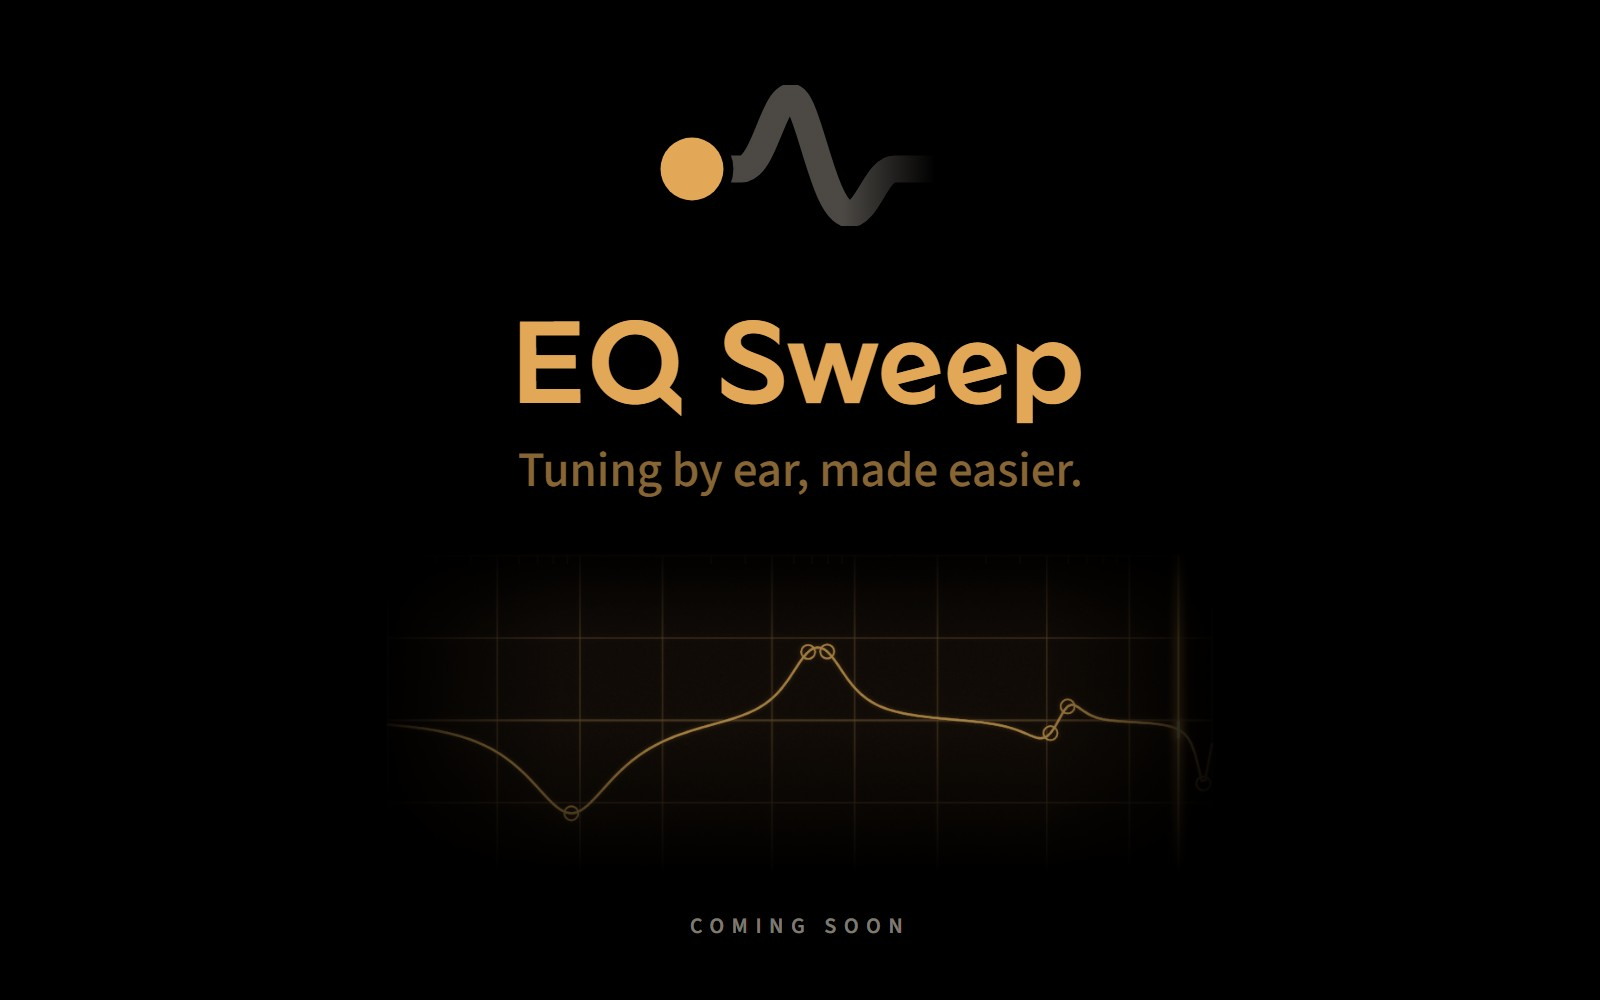
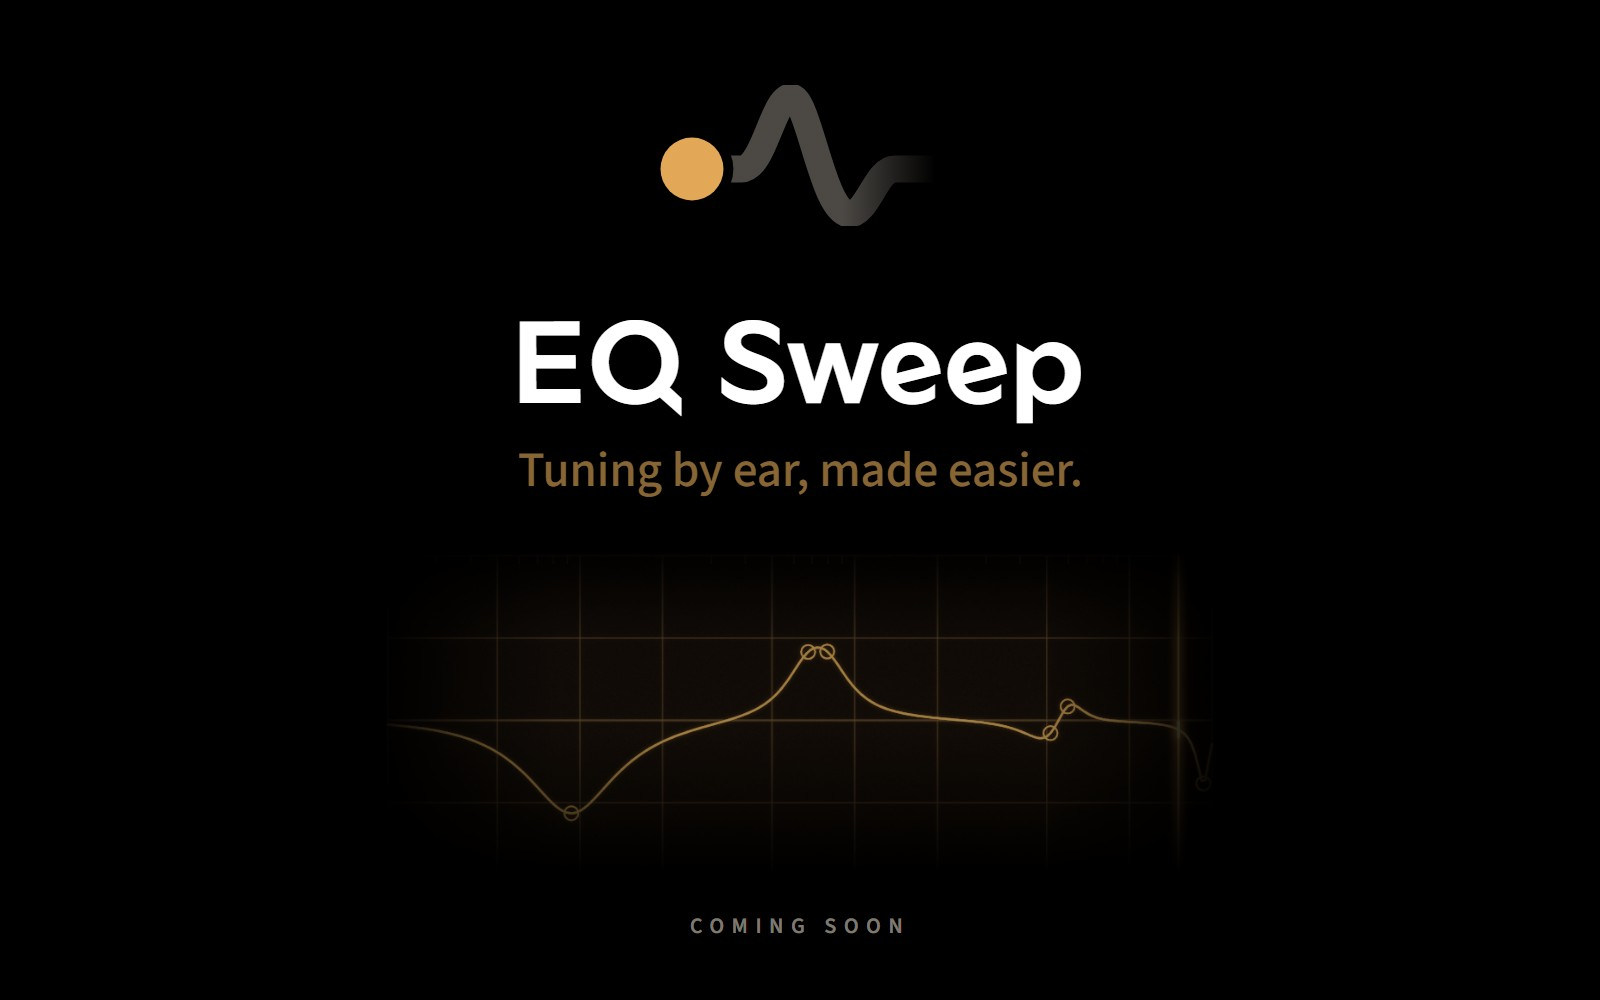
Profile: project titles above the images, EQ Sweep name in white

Changed region(s): [[0.3125, 0.31, 0.6875, 0.434]]

diff --git a/README.md b/README.md
@@ -1,29 +1,29 @@
 ### Chronosaur
 
-<a href="https://github.com/Chronosauros/eq-sweep"><img src="images/eq-sweep-teaser.jpg?v=3" width="100%" alt="EQ Sweep - coming soon."></a>
-
 **EQ Sweep** - coming soon
 
-<br>
+<a href="https://github.com/Chronosauros/eq-sweep"><img src="images/eq-sweep-teaser.jpg?v=4" width="100%" alt="EQ Sweep - coming soon."></a>
 
-<a href="https://github.com/Chronosauros/contour"><img src="images/contour-board.jpg?v=5" width="100%" alt="Contour - Android app, open source. EQ manager for the CrinEar Protocol Micro - keep profiles on your phone, send one in seconds."></a>
+<br>
 
 **Contour** - [source](https://github.com/Chronosauros/contour) · [download the APK](https://github.com/Chronosauros/contour/releases/latest)
 
-<br>
+<a href="https://github.com/Chronosauros/contour"><img src="images/contour-board.jpg?v=5" width="100%" alt="Contour - Android app, open source. EQ manager for the CrinEar Protocol Micro - keep profiles on your phone, send one in seconds."></a>
 
-<a href="https://filament-room.vercel.app"><img src="images/filament-room-board.jpg?v=3" width="100%" alt="Filament Room - website, work in progress. A 3D filament shelf in a painted workshop - open any spool for its print temperatures."></a>
+<br>
 
 **Filament Room** - work in progress - [filament-room.vercel.app](https://filament-room.vercel.app) · [source](https://github.com/Chronosauros/filament-room)
 
-<br>
+<a href="https://filament-room.vercel.app"><img src="images/filament-room-board.jpg?v=3" width="100%" alt="Filament Room - website, work in progress. A 3D filament shelf in a painted workshop - open any spool for its print temperatures."></a>
 
-<a href="https://gamebloom.vercel.app"><img src="images/gamebloom-board.jpg?v=3" width="100%" alt="gamebloom - website, live. Every new game trailer on one page, and every showcase game indexed with sourced facts."></a>
+<br>
 
 **gamebloom** - [gamebloom.vercel.app](https://gamebloom.vercel.app) · [showcase repo](https://github.com/Chronosauros/gamebloom)
 
+<a href="https://gamebloom.vercel.app"><img src="images/gamebloom-board.jpg?v=3" width="100%" alt="gamebloom - website, live. Every new game trailer on one page, and every showcase game indexed with sourced facts."></a>
+
 <br>
 
-<a href="https://chronosauros.github.io/satyr3-grille-studio/"><img src="images/satyr3-grille-studio-board.jpg?v=3" width="100%" alt="Satyr 3 Grille Studio - web tool, open source. Front grilles for DIY Satyr 3 headphones - pick a pattern, download the STL."></a>
-
 **Satyr 3 Grille Studio** - [open in the browser](https://chronosauros.github.io/satyr3-grille-studio/) · [source](https://github.com/Chronosauros/satyr3-grille-studio)
+
+<a href="https://chronosauros.github.io/satyr3-grille-studio/"><img src="images/satyr3-grille-studio-board.jpg?v=3" width="100%" alt="Satyr 3 Grille Studio - web tool, open source. Front grilles for DIY Satyr 3 headphones - pick a pattern, download the STL."></a>
